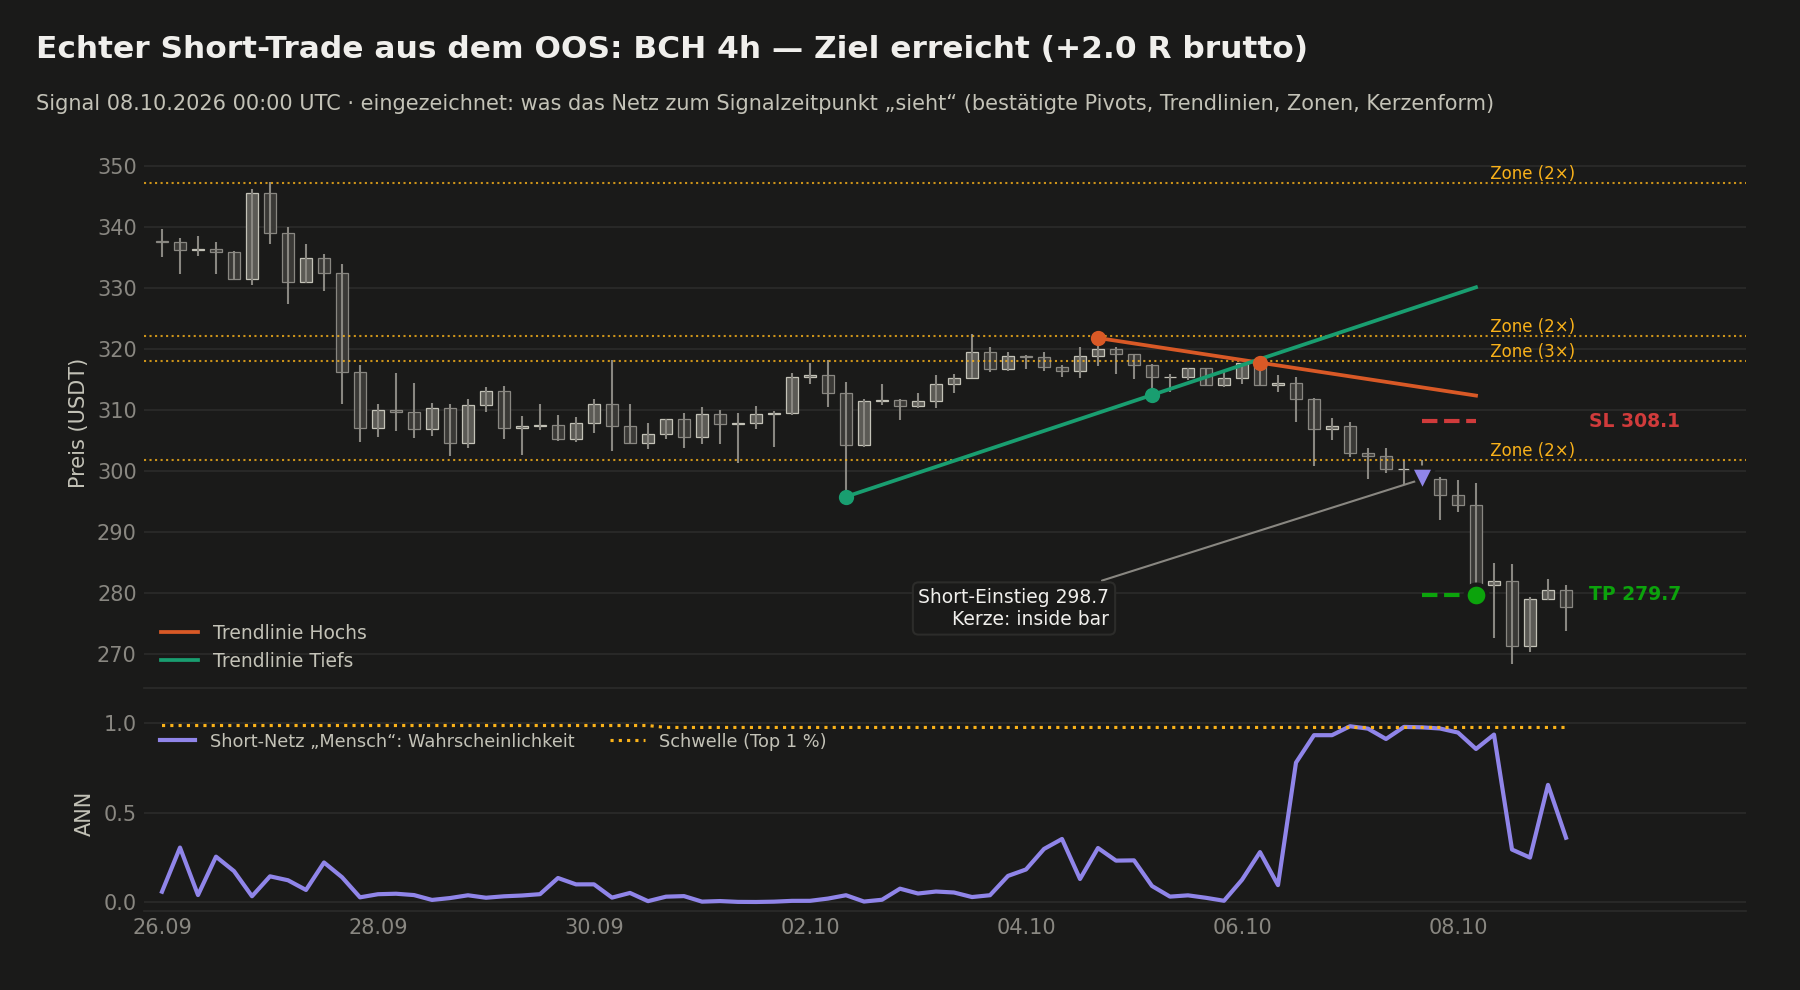
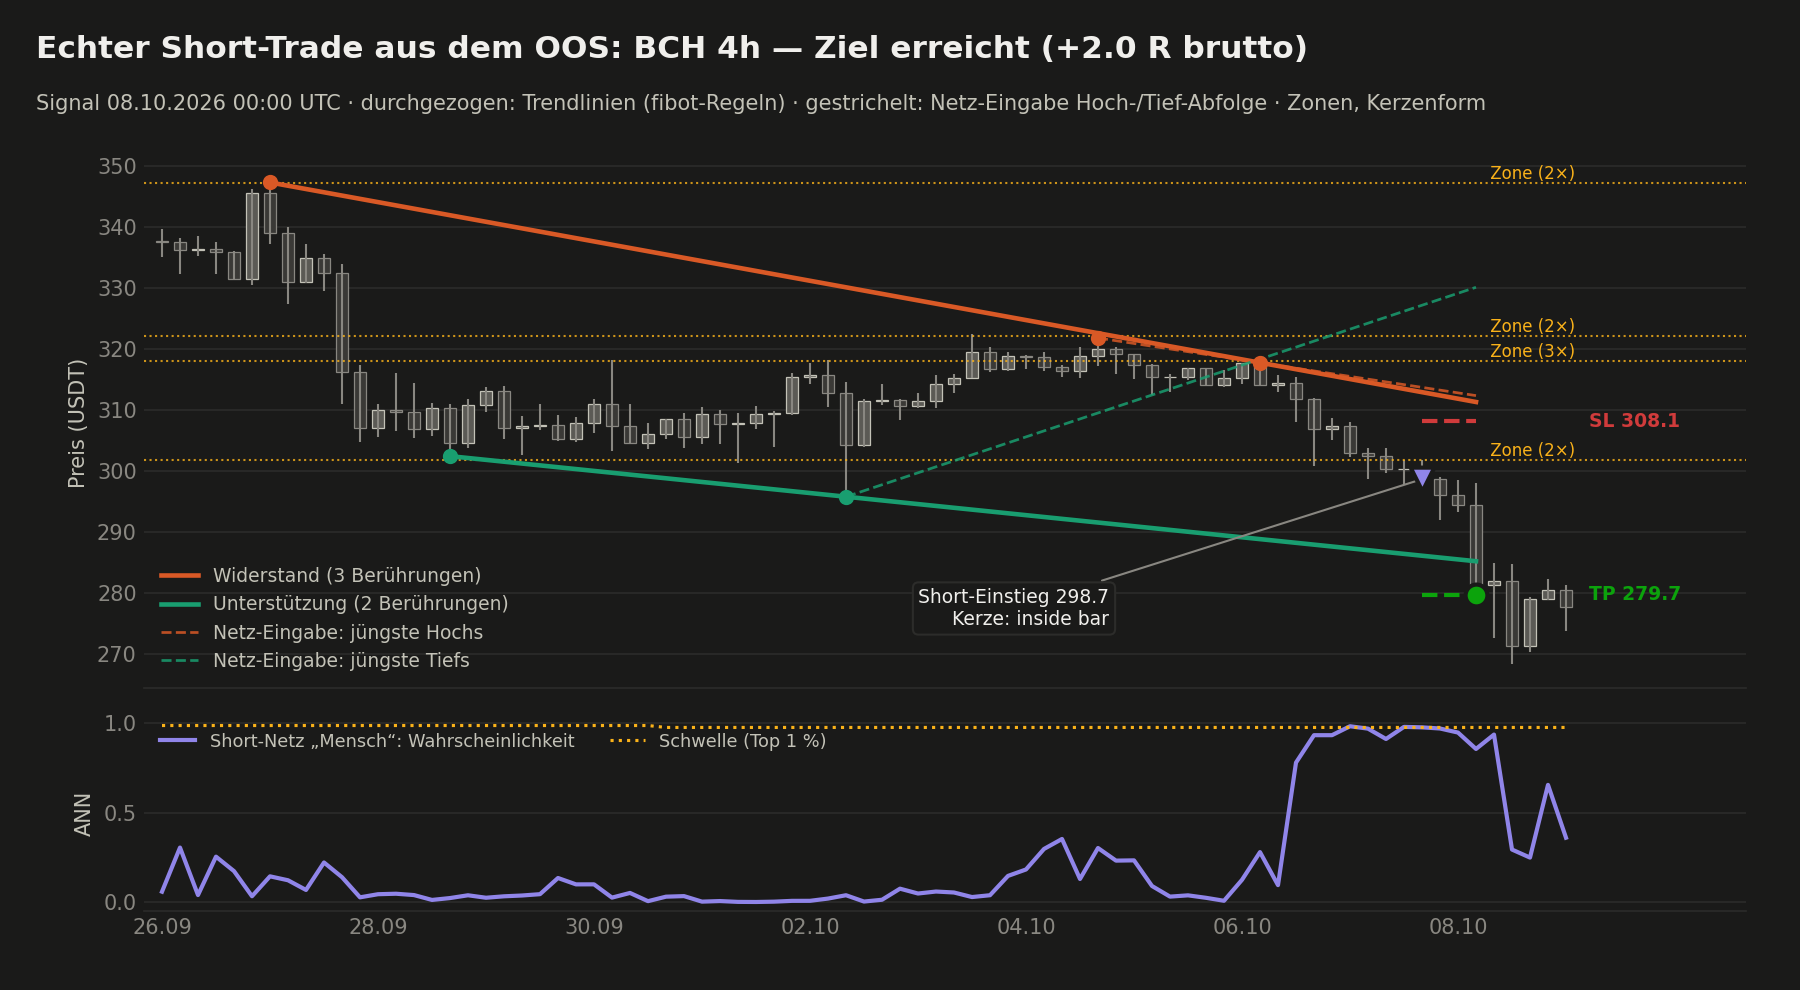
docs: Short-Trade-Bild mit sauberen Trendlinien (fibot-Regeln) und klar beschrifteter Netz-Eingabe
- docs/images/short_trade.png: durchgezogen = Trendlinien nach fibot-Regeln mit Beruehrungen
  (Widerstand 3x, Unterstuetzung 2x), gestrichelt = Netz-Eingabe "juengste Hochs/Tiefs"
  statt missverstaendlich "Trendlinie Hochs/Tiefs"
- README: Bildunterschrift zum Short-Trade

diff --git a/docs/make_illustrations.py b/docs/make_illustrations.py
@@ -422,14 +422,28 @@ def short_trade():
         if t >= 2 and win['low'].min() <= z <= win['high'].max():
             ax.axhline(z, color=WARNING, linewidth=1, linestyle=':', alpha=0.8)
             ax.text(len(win) - 0.5, z, f" Zone ({t}×)", color=WARNING, fontsize=8, va='bottom', ha='right')
-    # Trendlinien durch die letzten zwei Pivot-Hochs / -Tiefs
-    for P, arr, col, lab in ((ph, h, ORANGE, 'Trendlinie Hochs'), (pl, l, AQUA, 'Trendlinie Tiefs')):
+    # Saubere Trendlinien nach fibot-Regeln (Lesehilfe, durchgezogen, Beruehrungen als Punkte)
+    from jaegerbot.strategy.human_geometry import best_line
+    ph_all, pl_all = pivots(h[:i0 + 1], 5, 'high'), pivots(l[:i0 + 1], 5, 'low')
+    for side, piv, arr, col, lab in (('res', ph_all, h, ORANGE, 'Widerstand'), ('sup', pl_all, l, AQUA, 'Unterstützung')):
+        ln = best_line(i0, piv, arr, c, atr[i0], 5, side)
+        if ln is None:
+            continue
+        p1, p2, slope, icpt, touches = ln
+        a0 = max(p1, lo_i)
+        xs = np.array([pos(a0), pos(i0) + 3])
+        ax.plot(xs, icpt + slope * (xs + lo_i), color=col, linewidth=2.2, label=f"{lab} ({touches} Berührungen)")
+        cand = piv[(piv >= p1) & (piv <= i0 - 5)]
+        hit = cand[np.abs(arr[cand] - (icpt + slope * cand)) <= 0.3 * atr[i0]]
+        hit = hit[hit >= lo_i]
+        ax.scatter(pos(hit), arr[hit], color=col, s=40, zorder=4)
+    # Eingabe des Netzes: jüngste Hoch-/Tief-Abfolge (Linie durch die letzten zwei bestätigten Pivots, gestrichelt)
+    for P, arr, col, lab in ((ph, h, ORANGE, 'Netz-Eingabe: jüngste Hochs'), (pl, l, AQUA, 'Netz-Eingabe: jüngste Tiefs')):
         if len(P) >= 2 and P[-2] >= lo_i:
             a_, b_ = P[-2], P[-1]
             slope = (arr[b_] - arr[a_]) / (b_ - a_)
             xs = np.array([pos(a_), pos(i0) + 3])
-            ax.plot(xs, arr[a_] + slope * (xs + lo_i - a_), color=col, linewidth=1.8, label=lab)
-            ax.scatter([pos(a_), pos(b_)], [arr[a_], arr[b_]], color=col, s=40, zorder=4)
+            ax.plot(xs, arr[a_] + slope * (xs + lo_i - a_), color=col, linewidth=1.3, linestyle='--', alpha=0.85, label=lab)
     ax.hlines(e['sl'], pos(i0), pos(i1), color=CRITICAL, linewidth=2, linestyles='--')
     ax.hlines(e['tp'], pos(i0), pos(i1), color=GOOD, linewidth=2, linestyles='--')
     ax.text(len(win) + 0.3, e['sl'], f"SL {_px(e['sl'])}", color=CRITICAL, ha='left', va='center', fontsize=9, fontweight='bold')
@@ -452,8 +466,8 @@ def short_trade():
     ax2.set_xticks(x[::12], [f"{d:%d.%m}" for d in win.index[::12]])
     R = (e['signal_close'] - e['tp']) / (e['sl'] - e['signal_close'])
     _title(fig, f"Echter Short-Trade aus dem OOS: {e['coin']} 4h — Ziel erreicht (+{R:.1f} R brutto)",
-           f"Signal {e['time'] - tf:%d.%m.%Y %H:%M} UTC · eingezeichnet: was das Netz zum Signalzeitpunkt „sieht“ "
-           "(bestätigte Pivots, Trendlinien, Zonen, Kerzenform)")
+           f"Signal {e['time'] - tf:%d.%m.%Y %H:%M} UTC · durchgezogen: Trendlinien (fibot-Regeln) · "
+           "gestrichelt: Netz-Eingabe Hoch-/Tief-Abfolge · Zonen, Kerzenform")
     _save(fig, 'short_trade.png')
 
 

diff --git a/README.md b/README.md
@@ -131,6 +131,8 @@ Ein Pivot zählt erst, wenn er bestätigt ist (4h: 5 Kerzen später, Tag: 3 Tage
 
 ![Echter Short-Trade aus dem OOS mit der Geometrie, die das Netz zum Signalzeitpunkt sieht](docs/images/short_trade.png)
 
+*Ein echter Short aus den letzten 26 Wochen: fallender Kanal mit drei Berührungen am Widerstand, mehrfach berührte Zonen, Inside Bar als Signalkerze. Durchgezogene Linien sind die Trendlinien, wie ein Mensch sie zeichnet (fibot-Regeln, Punkte = Berührungen); gestrichelt ist, was das Netz als Eingabe bekommt (jüngste Hoch-/Tief-Abfolge). Unten die Short-Wahrscheinlichkeit des Netzes — gehandelt wird nur über der Schwelle (stärkste 1 %).*
+
 **Wie „Mensch“ ausgewählt wurde** (vorregistriert, `forschung/kanal_varianten/PREREG.md`): sechs Varianten mit je einer Änderung, nur im IS verglichen (Long-Seite immer die Live-Regel), danach einmal OOS. Kerzenformen allein schadeten; erst zusammen mit der Chart-Geometrie wurde das Netz stark. Ein gemeinsames Netz für Long und Short war deutlich schwächer.
 
 ![Vergleich der Short-Varianten im IS und OOS-Bestätigung](docs/images/variants.png)
